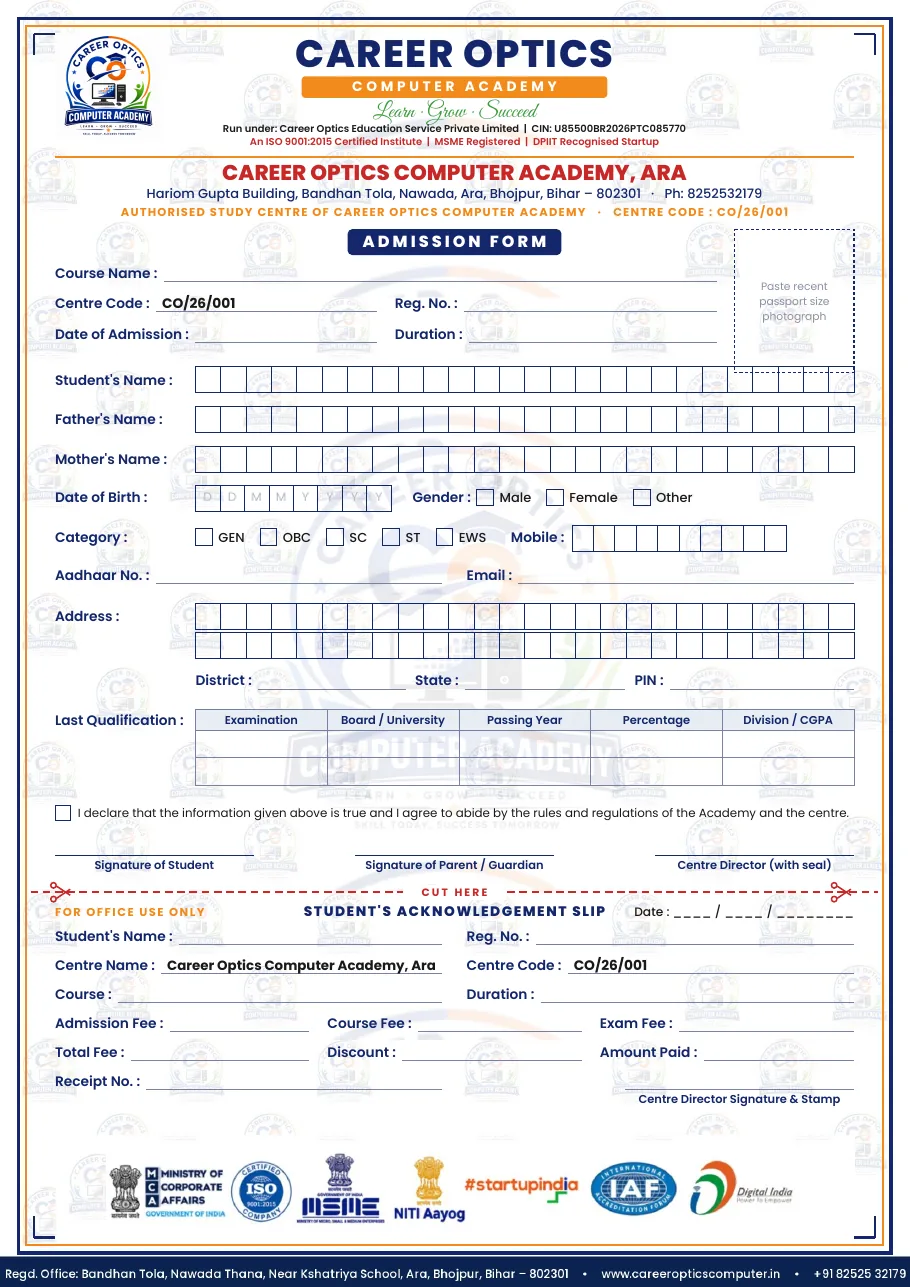
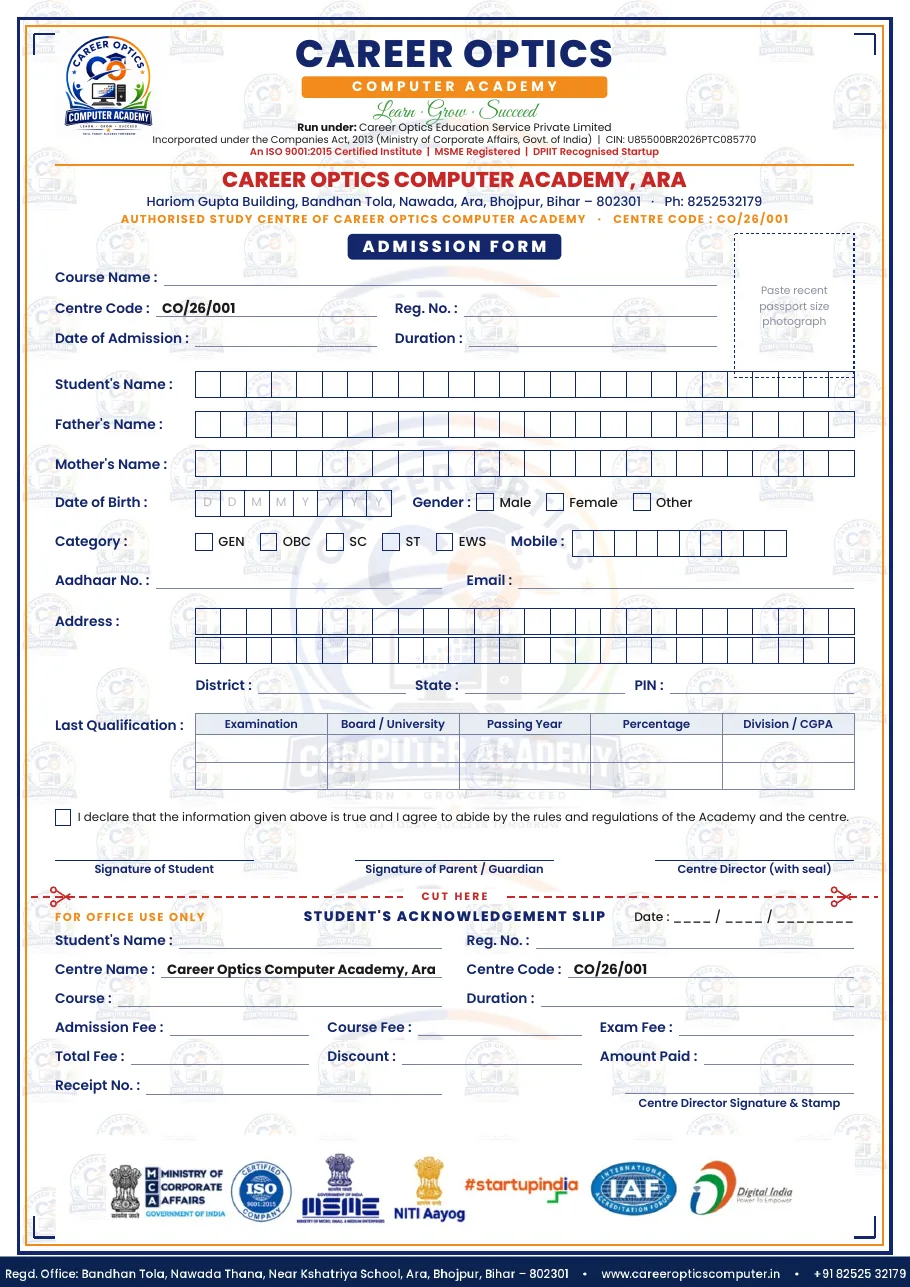
Carry the full company lines on the admission form
The header now has the three lines every certificate carries: "Run
under" with the company, the incorporation line with the CIN, and the
ISO / MSME / DPIIT line in red.

diff --git a/organization/src/lib/brand/brandDocuments.ts b/organization/src/lib/brand/brandDocuments.ts
@@ -1000,8 +1000,14 @@ export async function drawAdmissionForm(doc: jsPDF, c: AdmissionFormCentre) {
   doc.roundedRect(pt(cx - 100), pt(50), pt(200), pt(14), pt(2), pt(2), "F");
   put(doc, "COMPUTER ACADEMY", { x: cx, y: 60, size: 9, font: "Poppins-Bold", color: "#ffffff", align: "center", charSpace: 2.4 });
   put(doc, "Learn · Grow · Succeed", { x: cx, y: 77, size: 14, font: "GreatVibes-Regular", color: GREEN, align: "center" });
-  put(doc, "Run under: Career Optics Education Service Private Limited  |  CIN: U85500BR2026PTC085770", { x: cx, y: 87, size: 6.5, font: "Poppins-SemiBold", color: "#1a1a1a", align: "center" });
-  put(doc, "An ISO 9001:2015 Certified Institute  |  MSME Registered  |  DPIIT Recognised Startup", { x: cx, y: 95, size: 6.5, font: "Poppins-SemiBold", color: RED, align: "center" });
+  // The company lines, as every certificate carries them
+  const run = "Run under: ";
+  const company = "Career Optics Education Service Private Limited";
+  const runW = measure(doc, run, "Poppins-Bold", 7) + measure(doc, company, "Poppins-Regular", 7);
+  put(doc, run, { x: cx - runW / 2, y: 86, size: 7, font: "Poppins-Bold", color: "#1a1a1a" });
+  put(doc, company, { x: cx - runW / 2 + measure(doc, run, "Poppins-Bold", 7), y: 86, size: 7, font: "Poppins-Regular", color: "#1a1a1a" });
+  put(doc, "Incorporated under the Companies Act, 2013 (Ministry of Corporate Affairs, Govt. of India)  |  CIN: U85500BR2026PTC085770", { x: cx, y: 94, size: 6.5, font: "Poppins-Regular", color: "#1a1a1a", align: "center" });
+  put(doc, "An ISO 9001:2015 Certified Institute  |  MSME Registered  |  DPIIT Recognised Startup", { x: cx, y: 102, size: 6.5, font: "Poppins-SemiBold", color: RED, align: "center" });
   if (c.logo) {
     doc.setDrawColor(...rgb(ORANGE));
     doc.setLineWidth(pt(0.8));
@@ -1010,21 +1016,21 @@ export async function drawAdmissionForm(doc: jsPDF, c: AdmissionFormCentre) {
   }
   doc.setDrawColor(...rgb(ORANGE));
   doc.setLineWidth(pt(1.2));
-  line(left, 103, right, 103);
-  put(doc, c.centreName.toUpperCase(), { x: cx, y: 118, size: 14, font: "Poppins-ExtraBold", color: RED, align: "center", maxWidth: W });
-  put(doc, [c.address, c.phone ? `Ph: ${c.phone}` : ""].filter(Boolean).join("   ·   "), { x: cx, y: 130, size: 8.5, font: "Poppins-Medium", color: NAVY, align: "center", maxWidth: W });
-  put(doc, `AUTHORISED STUDY CENTRE OF CAREER OPTICS COMPUTER ACADEMY${c.centreCode ? `   ·   CENTRE CODE : ${c.centreCode}` : ""}`, { x: cx, y: 142, size: 7.5, font: "Poppins-Bold", color: ORANGE, align: "center", charSpace: 0.8, maxWidth: W });
+  line(left, 108, right, 108);
+  put(doc, c.centreName.toUpperCase(), { x: cx, y: 123, size: 14, font: "Poppins-ExtraBold", color: RED, align: "center", maxWidth: W });
+  put(doc, [c.address, c.phone ? `Ph: ${c.phone}` : ""].filter(Boolean).join("   ·   "), { x: cx, y: 135, size: 8.5, font: "Poppins-Medium", color: NAVY, align: "center", maxWidth: W });
+  put(doc, `AUTHORISED STUDY CENTRE OF CAREER OPTICS COMPUTER ACADEMY${c.centreCode ? `   ·   CENTRE CODE : ${c.centreCode}` : ""}`, { x: cx, y: 146, size: 7.5, font: "Poppins-Bold", color: ORANGE, align: "center", charSpace: 0.8, maxWidth: W });
 
   // Title and photograph
   doc.setFillColor(...rgb(NAVY));
-  doc.roundedRect(pt(cx - 70), pt(150), pt(140), pt(17), pt(3), pt(3), "F");
-  put(doc, "ADMISSION FORM", { x: cx, y: 162, size: 10.5, font: "Poppins-ExtraBold", color: "#ffffff", align: "center", charSpace: 2 });
+  doc.roundedRect(pt(cx - 70), pt(153), pt(140), pt(17), pt(3), pt(3), "F");
+  put(doc, "ADMISSION FORM", { x: cx, y: 165, size: 10.5, font: "Poppins-ExtraBold", color: "#ffffff", align: "center", charSpace: 2 });
   doc.setDrawColor(...rgb(NAVY));
   doc.setLineWidth(pt(0.8));
   doc.setLineDashPattern([pt(2), pt(1.5)], 0);
-  rect(right - 78, 150, 78, 94);
+  rect(right - 78, 153, 78, 94);
   doc.setLineDashPattern([], 0);
-  ["Paste recent", "passport size", "photograph"].forEach((t, i) => put(doc, t, { x: right - 39, y: 190 + i * 10, size: 7, font: "Poppins-Regular", color: "#8a8fa5", align: "center" }));
+  ["Paste recent", "passport size", "photograph"].forEach((t, i) => put(doc, t, { x: right - 39, y: 193 + i * 10, size: 7, font: "Poppins-Regular", color: "#8a8fa5", align: "center" }));
 
   // Top lines: course, centre code / reg. no., date / duration
   const ul = (label: string, x: number, y: number, w: number, value = "") => {
@@ -1036,7 +1042,7 @@ export async function drawAdmissionForm(doc: jsPDF, c: AdmissionFormCentre) {
     if (value) put(doc, value, { x: lx0 + 4, y, size: 9, font: "Poppins-Bold", color: "#1a1a1a", maxWidth: x + w - lx0 - 6 });
   };
   const formW = W - 90;
-  let y = 182;
+  let y = 185;
   ul("Course Name :", left, y, formW);
   y += 20;
   ul("Centre Code :", left, y, formW / 2 - 6, c.centreCode || "");
